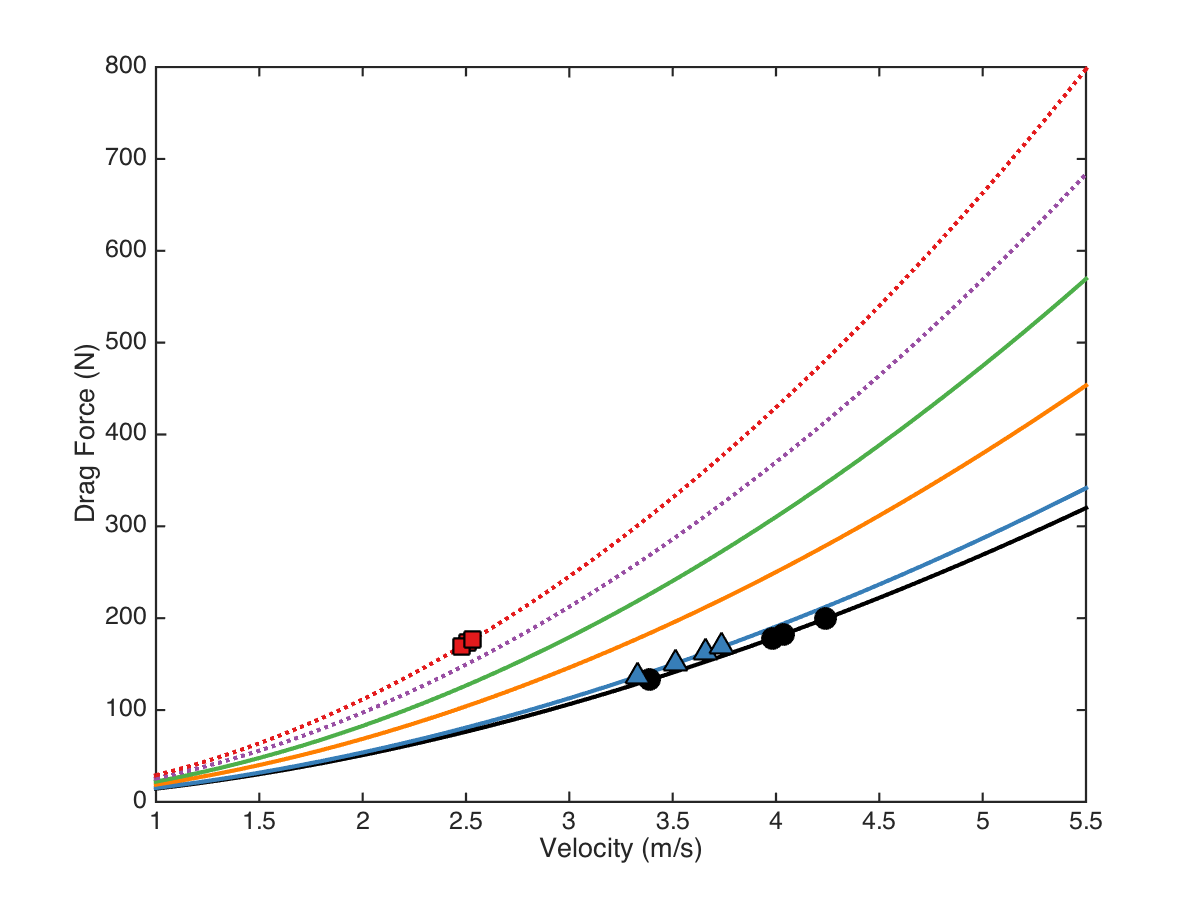
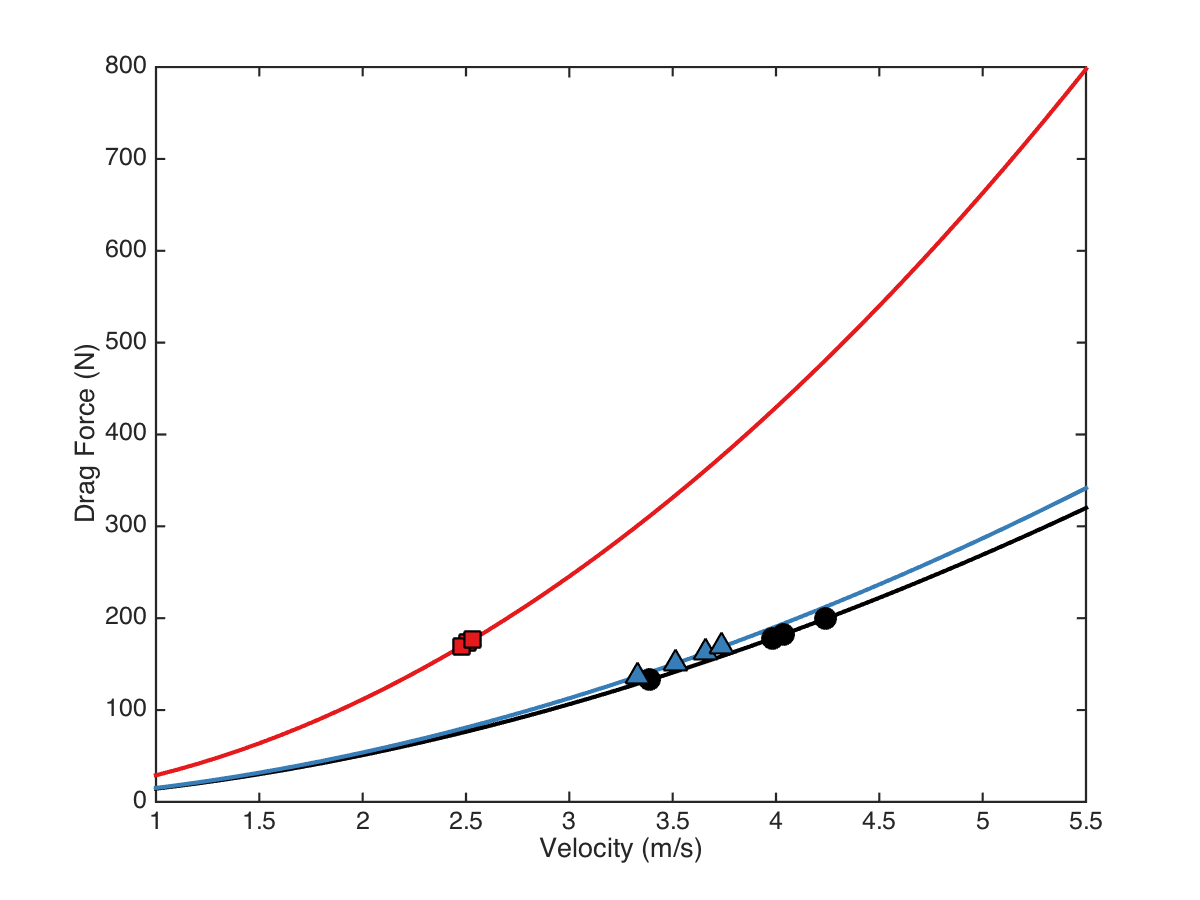
Fig adjustments

diff --git a/SlowDown_dolphins2013.m b/SlowDown_dolphins2013.m
@@ -123,10 +123,7 @@ figure(1); %subplot('position',[0.58 0.1 0.4 0.8]);
 hold on
 plot(velHD,c_notag(1)*velHD.^c_notag(2),'k','LineWidth',2); box on
 plot(velHD,c_tag(1)*velHD.^c_tag(2),'color',[55/255 126/255 184/255],'linewidth',2)
-plot(velHD,c_tag2(1)*velHD.^c_tag2(2),'color',[255/255 127/255 0/255],'linewidth',2)
-plot(velHD,c_tag4(1)*velHD.^c_tag4(2),'color',[77/255 175/255 74/255],'linewidth',2)
-plot(velHD,c_tag6(1)*velHD.^c_tag6(2),':','color',[152/255 78/255 163/255],'linewidth',2)
-plot(velHD,c_tag8(1)*velHD.^c_tag8(2),':','color',[228/255 26/255 28/255],'linewidth',2)
+plot(velHD,c_tag8(1)*velHD.^c_tag8(2),'color',[228/255 26/255 28/255],'linewidth',2)
 
 xlabel('Velocity (m/s)'); xlim([1 5.5])
 adjustfigurefont
@@ -153,7 +150,8 @@ print -dsvg SpeedPerspFilt
 
 %% add velocities from loading/unloading trials
 % plot on figure
-figure(2); clf; hold on
+figure(2); clf; set(gcf,'position',[23   290   850   380])
+subplot('position',[0.1 0.1 0.4 0.8]); hold on
 plot(velHD,c_notag(1)*velHD.^c_notag(2),'k','LineWidth',2); box on
 plot(velHD,c_tag(1)*velHD.^c_tag(2),'color',[55/255 126/255 184/255],'linewidth',2)
 plot(velHD,c_tag2(1)*velHD.^c_tag2(2),'color',[255/255 127/255 0/255],'linewidth',2)
@@ -198,7 +196,7 @@ plot(Lpath(:,1),Lpath(:,2),'k-')
 %%
 %% add velocities from loading/unloading trials
 % plot on figure
-figure(3); clf; hold on
+figure(2); subplot('position',[0.58 0.1 0.4 0.8]); hold on
 plot(velHD,c_notag(1)*velHD.^c_notag(2),'k','LineWidth',2); box on
 plot(velHD,c_tag(1)*velHD.^c_tag(2),'color',[55/255 126/255 184/255],'linewidth',2)
 plot(velHD,c_tag2(1)*velHD.^c_tag2(2),'color',[255/255 127/255 0/255],'linewidth',2)
@@ -240,3 +238,5 @@ Lpath(:,2) = [c_tag8(1)*nanmean(T8.Lspeed).^c_tag8(2), c_tag6(1)*nanmean(T6.Lspe
     c_tag4(1)*nanmean(T4.Lspeed).^c_tag4(2), c_tag2(1)*nanmean(T2.Lspeed).^c_tag2(2), ...
     c_tag(1)*nanmean(T.Lspeed).^c_tag(2), c_notag(1)*mean(C.Lspeed).^c_notag(2)];
 plot(Lpath(:,1),Lpath(:,2),'k-')
+
+print -dpng SpeedPersp_UnloadLoadBoth
